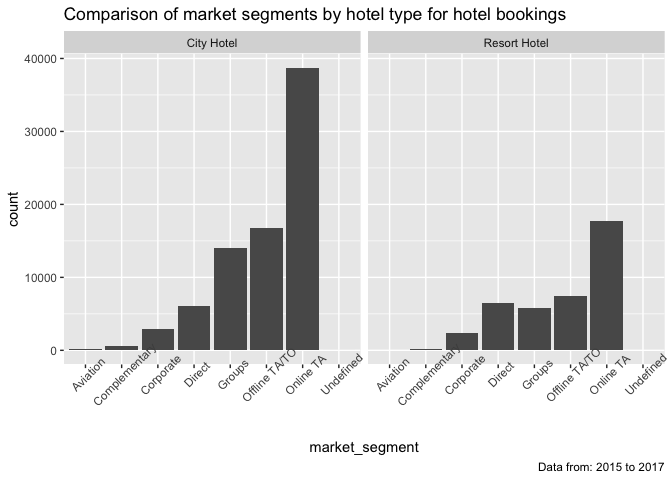
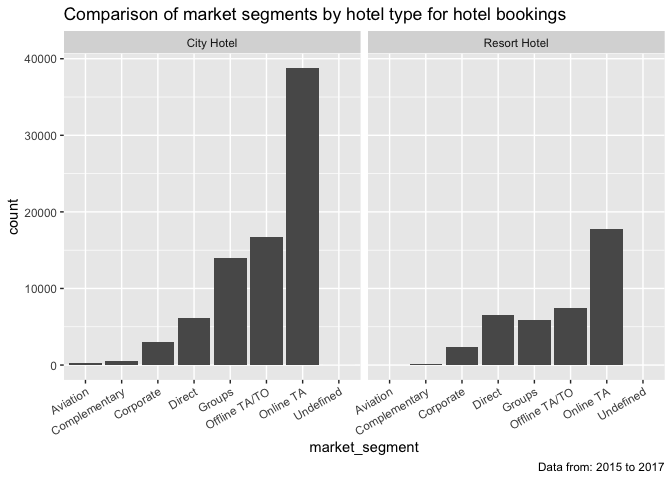
WIP

diff --git a/Coursera/R_Lesson4_Annotations.md b/Coursera/R_Lesson4_Annotations.md
@@ -68,65 +68,175 @@ chunks below to get at a sample of the data and also preview all the
 column names:
 
 ``` r
-head(hotel_bookings)
+knitr::kable(hotel_bookings[1:7,1:6], format="html")
 ```
 
-    ##          hotel is_canceled lead_time arrival_date_year arrival_date_month
-    ## 1 Resort Hotel           0       342              2015               July
-    ## 2 Resort Hotel           0       737              2015               July
-    ## 3 Resort Hotel           0         7              2015               July
-    ## 4 Resort Hotel           0        13              2015               July
-    ## 5 Resort Hotel           0        14              2015               July
-    ## 6 Resort Hotel           0        14              2015               July
-    ##   arrival_date_week_number arrival_date_day_of_month stays_in_weekend_nights
-    ## 1                       27                         1                       0
-    ## 2                       27                         1                       0
-    ## 3                       27                         1                       0
-    ## 4                       27                         1                       0
-    ## 5                       27                         1                       0
-    ## 6                       27                         1                       0
-    ##   stays_in_week_nights adults children babies meal country market_segment
-    ## 1                    0      2        0      0   BB     PRT         Direct
-    ## 2                    0      2        0      0   BB     PRT         Direct
-    ## 3                    1      1        0      0   BB     GBR         Direct
-    ## 4                    1      1        0      0   BB     GBR      Corporate
-    ## 5                    2      2        0      0   BB     GBR      Online TA
-    ## 6                    2      2        0      0   BB     GBR      Online TA
-    ##   distribution_channel is_repeated_guest previous_cancellations
-    ## 1               Direct                 0                      0
-    ## 2               Direct                 0                      0
-    ## 3               Direct                 0                      0
-    ## 4            Corporate                 0                      0
-    ## 5                TA/TO                 0                      0
-    ## 6                TA/TO                 0                      0
-    ##   previous_bookings_not_canceled reserved_room_type assigned_room_type
-    ## 1                              0                  C                  C
-    ## 2                              0                  C                  C
-    ## 3                              0                  A                  C
-    ## 4                              0                  A                  A
-    ## 5                              0                  A                  A
-    ## 6                              0                  A                  A
-    ##   booking_changes deposit_type agent company days_in_waiting_list customer_type
-    ## 1               3   No Deposit  NULL    NULL                    0     Transient
-    ## 2               4   No Deposit  NULL    NULL                    0     Transient
-    ## 3               0   No Deposit  NULL    NULL                    0     Transient
-    ## 4               0   No Deposit   304    NULL                    0     Transient
-    ## 5               0   No Deposit   240    NULL                    0     Transient
-    ## 6               0   No Deposit   240    NULL                    0     Transient
-    ##   adr required_car_parking_spaces total_of_special_requests reservation_status
-    ## 1   0                           0                         0          Check-Out
-    ## 2   0                           0                         0          Check-Out
-    ## 3  75                           0                         0          Check-Out
-    ## 4  75                           0                         0          Check-Out
-    ## 5  98                           0                         1          Check-Out
-    ## 6  98                           0                         1          Check-Out
-    ##   reservation_status_date
-    ## 1              2015-07-01
-    ## 2              2015-07-01
-    ## 3              2015-07-02
-    ## 4              2015-07-02
-    ## 5              2015-07-03
-    ## 6              2015-07-03
+<table>
+<thead>
+<tr>
+<th style="text-align:left;">
+hotel
+</th>
+<th style="text-align:right;">
+is_canceled
+</th>
+<th style="text-align:right;">
+lead_time
+</th>
+<th style="text-align:right;">
+arrival_date_year
+</th>
+<th style="text-align:left;">
+arrival_date_month
+</th>
+<th style="text-align:right;">
+arrival_date_week_number
+</th>
+</tr>
+</thead>
+<tbody>
+<tr>
+<td style="text-align:left;">
+Resort Hotel
+</td>
+<td style="text-align:right;">
+0
+</td>
+<td style="text-align:right;">
+342
+</td>
+<td style="text-align:right;">
+2015
+</td>
+<td style="text-align:left;">
+July
+</td>
+<td style="text-align:right;">
+27
+</td>
+</tr>
+<tr>
+<td style="text-align:left;">
+Resort Hotel
+</td>
+<td style="text-align:right;">
+0
+</td>
+<td style="text-align:right;">
+737
+</td>
+<td style="text-align:right;">
+2015
+</td>
+<td style="text-align:left;">
+July
+</td>
+<td style="text-align:right;">
+27
+</td>
+</tr>
+<tr>
+<td style="text-align:left;">
+Resort Hotel
+</td>
+<td style="text-align:right;">
+0
+</td>
+<td style="text-align:right;">
+7
+</td>
+<td style="text-align:right;">
+2015
+</td>
+<td style="text-align:left;">
+July
+</td>
+<td style="text-align:right;">
+27
+</td>
+</tr>
+<tr>
+<td style="text-align:left;">
+Resort Hotel
+</td>
+<td style="text-align:right;">
+0
+</td>
+<td style="text-align:right;">
+13
+</td>
+<td style="text-align:right;">
+2015
+</td>
+<td style="text-align:left;">
+July
+</td>
+<td style="text-align:right;">
+27
+</td>
+</tr>
+<tr>
+<td style="text-align:left;">
+Resort Hotel
+</td>
+<td style="text-align:right;">
+0
+</td>
+<td style="text-align:right;">
+14
+</td>
+<td style="text-align:right;">
+2015
+</td>
+<td style="text-align:left;">
+July
+</td>
+<td style="text-align:right;">
+27
+</td>
+</tr>
+<tr>
+<td style="text-align:left;">
+Resort Hotel
+</td>
+<td style="text-align:right;">
+0
+</td>
+<td style="text-align:right;">
+14
+</td>
+<td style="text-align:right;">
+2015
+</td>
+<td style="text-align:left;">
+July
+</td>
+<td style="text-align:right;">
+27
+</td>
+</tr>
+<tr>
+<td style="text-align:left;">
+Resort Hotel
+</td>
+<td style="text-align:right;">
+0
+</td>
+<td style="text-align:right;">
+0
+</td>
+<td style="text-align:right;">
+2015
+</td>
+<td style="text-align:left;">
+July
+</td>
+<td style="text-align:right;">
+27
+</td>
+</tr>
+</tbody>
+</table>
 
 ``` r
 colnames(hotel_bookings)
@@ -163,10 +273,6 @@ have already downloaded the `ggplot2` package.
 Run the code chunk below to install and load `ggplot2`. This may take a
 few minutes!
 
-``` {install.packages('ggplot2')}
-library(ggplot2)
-```
-
 If you haven’t installed and loaded tidyverse in this RStudio session,
 you can run the code chunk below. This may take a few minutes!
 
@@ -174,15 +280,6 @@ you can run the code chunk below. This may take a few minutes!
 #install.packages('tidyverse')
 library(tidyverse)
 ```
-
-    ## ── Attaching packages ─────────────────────────────────────── tidyverse 1.3.2 ──
-    ## ✔ ggplot2 3.4.1     ✔ purrr   1.0.1
-    ## ✔ tibble  3.1.8     ✔ dplyr   1.1.0
-    ## ✔ tidyr   1.3.0     ✔ stringr 1.5.0
-    ## ✔ readr   2.1.4     ✔ forcats 1.0.0
-    ## ── Conflicts ────────────────────────────────────────── tidyverse_conflicts() ──
-    ## ✖ dplyr::filter() masks stats::filter()
-    ## ✖ dplyr::lag()    masks stats::lag()
 
 ## Step 4: Annotating your chart
 
@@ -268,13 +365,6 @@ have to change the code below because the variables are dynamic:
 library(lubridate)
 ```
 
-    ## 
-    ## Attaching package: 'lubridate'
-
-    ## The following objects are masked from 'package:base':
-    ## 
-    ##     date, intersect, setdiff, union
-
 ``` r
 ggplot(data = hotel_bookings) +
   geom_bar(mapping = aes(x = market_segment, fill = hotel)) +
@@ -308,7 +398,8 @@ notice during the presentation. You decide to switch the `subtitle` to a
 ggplot(data = hotel_bookings) +
   geom_bar(mapping = aes(x = market_segment)) +
   facet_wrap(~hotel) +
-  theme(axis.text.x = element_text(angle = 45)) +
+  theme(axis.text.x = element_text(angle = 30,
+                                   hjust = 1)) +
   labs(title="Comparison of market segments by hotel type for hotel bookings",
        caption=paste0("Data from: ", mindate, " to ", maxdate))
 ```
@@ -360,8 +451,10 @@ the .png file contains. Now you should be able to find this file in your
 ‘Files’ tab in the bottom right of your screen. Check it out!
 
 ``` r
-#ggsave('hotel_booking_chart2.png')
+ggsave('hotel_booking_chart2.png')
 ```
+
+    ## Saving 7 x 5 in image
 
 ## Practice quiz
 
@@ -376,9 +469,9 @@ slide show presentation, you could specify the height and width of your
 16x8 .png image:
 
 ``` r
-#ggsave('hotel_booking_chart.png',
-#       width=7,
-#       height=7)
+ggsave('hotel_booking_chart.png',
+       width=7,
+       height=7)
 ```
 
 ## Activity Wrap Up
